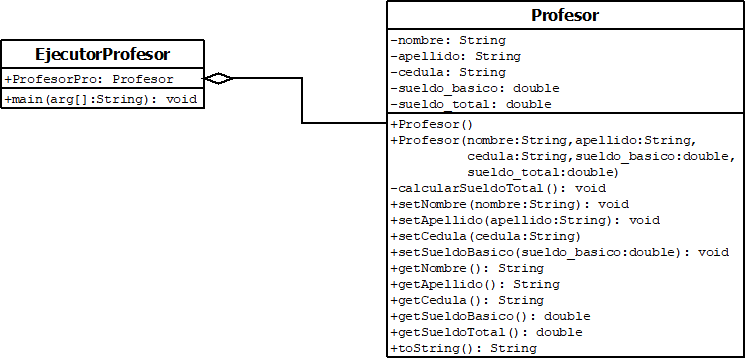
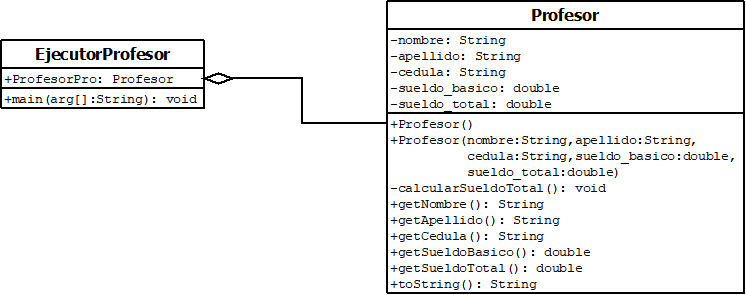
actualizado

Changed region(s): [[0.4008, 0.0, 1.0, 1.0], [0.0, 0.0915, 0.4316, 0.3966]]

diff --git a/Solucion_Codigo/ProyectoTaller3/src/EjecutorProfesor.java b/Solucion_Codigo/ProyectoTaller3/src/EjecutorProfesor.java
@@ -5,6 +5,7 @@ public class EjecutorProfesor {
 
     public static void main(String[] args) {
         Scanner sc = new Scanner(System.in);
+
         System.out.print("Nombre: ");
         String nombre = sc.nextLine();
 
@@ -15,10 +16,8 @@ public class EjecutorProfesor {
         String cedula = sc.nextLine();
 
         System.out.print("Sueldo básico: ");
-        double sueldoBasico = sc.nextDouble();
-
-        Profesor profesor = new Profesor(nombre, apellido, cedula, sueldoBasico);
-
+        double sueldo_basico = sc.nextDouble();
+        Profesor profesor = new Profesor(nombre, apellido, cedula, sueldo_basico);
         System.out.println(profesor);
     }
 }
@@ -28,39 +27,15 @@ class Profesor {
     private String nombre;
     private String apellido;
     private String cedula;
-    private double sueldoBasico;
-    private double sueldoTotal;
+    private double sueldo_basico;
+    private double sueldo_total;
 
-    public Profesor(String nombre, String apellido, String cedula, double sueldoBasico) {
+    public Profesor(String nombre, String apellido, String cedula, double sueldo_basico) {
         this.nombre = nombre;
         this.apellido = apellido;
         this.cedula = cedula;
-        this.sueldoBasico = sueldoBasico;
-        calcularSueldoTotal();
-    }
-
-    private void calcularSueldoTotal() {
-        this.sueldoTotal = this.sueldoBasico * 1.2;
-    }
-
-    public String getNombre() {
-        return nombre;
-    }
-
-    public String getApellido() {
-        return apellido;
-    }
-
-    public String getCedula() {
-        return cedula;
-    }
-
-    public double getSueldoBasico() {
-        return sueldoBasico;
-    }
-
-    public double getSueldoTotal() {
-        return sueldoTotal;
+        this.sueldo_basico = sueldo_basico;
+        this.sueldo_total = sueldo_basico * 1.2;
     }
 
     public String toString() {
@@ -68,9 +43,9 @@ class Profesor {
                 "Profesor: %s %s%n"
                 + "Cédula: %s%n"
                 + "Sueldo Básico: $%.2f%n"
-                + "Sueldo Total (+20%%): $%.2f",
+                + "Sueldo Total:  $%.2f",
                 nombre, apellido, cedula,
-                sueldoBasico, sueldoTotal
+                sueldo_basico, sueldo_basico
         );
     }
 }

diff --git a/Solucion_Codigo/ProyectoTaller3/src/EjecutorAutomotor.java b/Solucion_Codigo/ProyectoTaller3/src/EjecutorAutomotor.java
@@ -1,0 +1,75 @@
+import java.util.Scanner;
+
+public class EjecutorAutomotor {
+    public static void main(String[] args) {
+        Scanner sc = new Scanner(System.in);
+
+        System.out.print("Cédula del dueño: ");
+        String cedulaDueno = sc.nextLine();
+
+        System.out.print("Marca del vehículo: ");
+        String marcaVeh = sc.nextLine();
+
+        System.out.print("Año de fabricación: ");
+        int anioFabr = sc.nextInt();
+
+        System.out.print("Valor del vehículo: ");
+        double valorVeh = sc.nextDouble();
+        Automotor auto = new Automotor(cedulaDueno, marcaVeh, anioFabr, valorVeh);
+        System.out.println(auto);
+    }
+}
+
+class Automotor {
+    private String cedulaDueno;
+    private String marcaVeh;
+    private int anioFabr;
+    private double valorVeh;
+    private double valorMatricula;
+
+    public Automotor(String cedulaDueno, String marcaVeh, int anioFabr, double valorVeh) {
+        this.cedulaDueno = cedulaDueno;
+        this.marcaVeh = marcaVeh;
+        this.anioFabr = anioFabr;
+        this.valorVeh = valorVeh;
+        calcularValorMatricula();
+    }
+
+    private void calcularValorMatricula() {
+        int anioActual = java.time.Year.now().getValue();
+        int antiguedad = anioActual - anioFabr;
+        this.valorMatricula = valorVeh * 0.002 * antiguedad;
+    }
+
+    public String getCedulaDuenio() {
+        return cedulaDueno;
+    }
+
+    public String getMarcaVehiculo() {
+        return marcaVeh;
+    }
+
+    public int getAnioFabricacion() {
+        return anioFabr;
+    }
+
+    public double getValorVehiculo() {
+        return valorVeh;
+    }
+
+    public double getValorMatricula() {
+        return valorMatricula;
+    }
+    
+    public String toString() {
+        return String.format(
+            "Automotor:%n" +
+            "  Dueño (cédula): %s%n" +
+            "  Marca: %s%n" +
+            "  Año fabric.: %d%n" +
+            "  Valor vehículo: $%.2f%n" +
+            "  Valor matrícula: $%.2f",
+            cedulaDueno, marcaVeh, anioFabr, valorVeh, valorMatricula
+        );
+    }
+}
